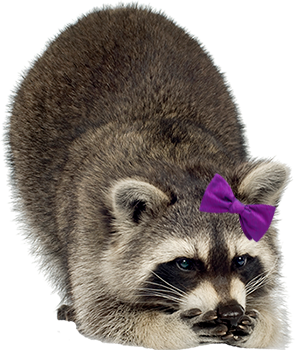
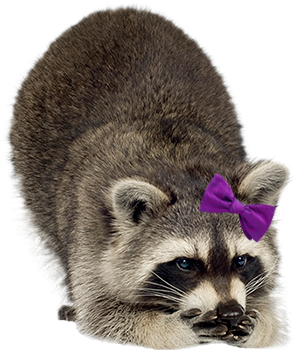
update fools mascot images with fixed alpha

diff --git a/app/javascript/mastodon/features/compose/components/mascot.js b/app/javascript/mastodon/features/compose/components/mascot.js
@@ -17,7 +17,7 @@ export default class Mascot extends React.Component {
   componentDidMount () {
     let url;
     if(photorealistic_mascot){
-      url = 'https://media.chitter.xyz/mascots/fools.json?1'
+      url = 'https://media.chitter.xyz/mascots/fools.json?3'
     }
     else {
       url = 'https://media.chitter.xyz/mascots/mascots.json'
